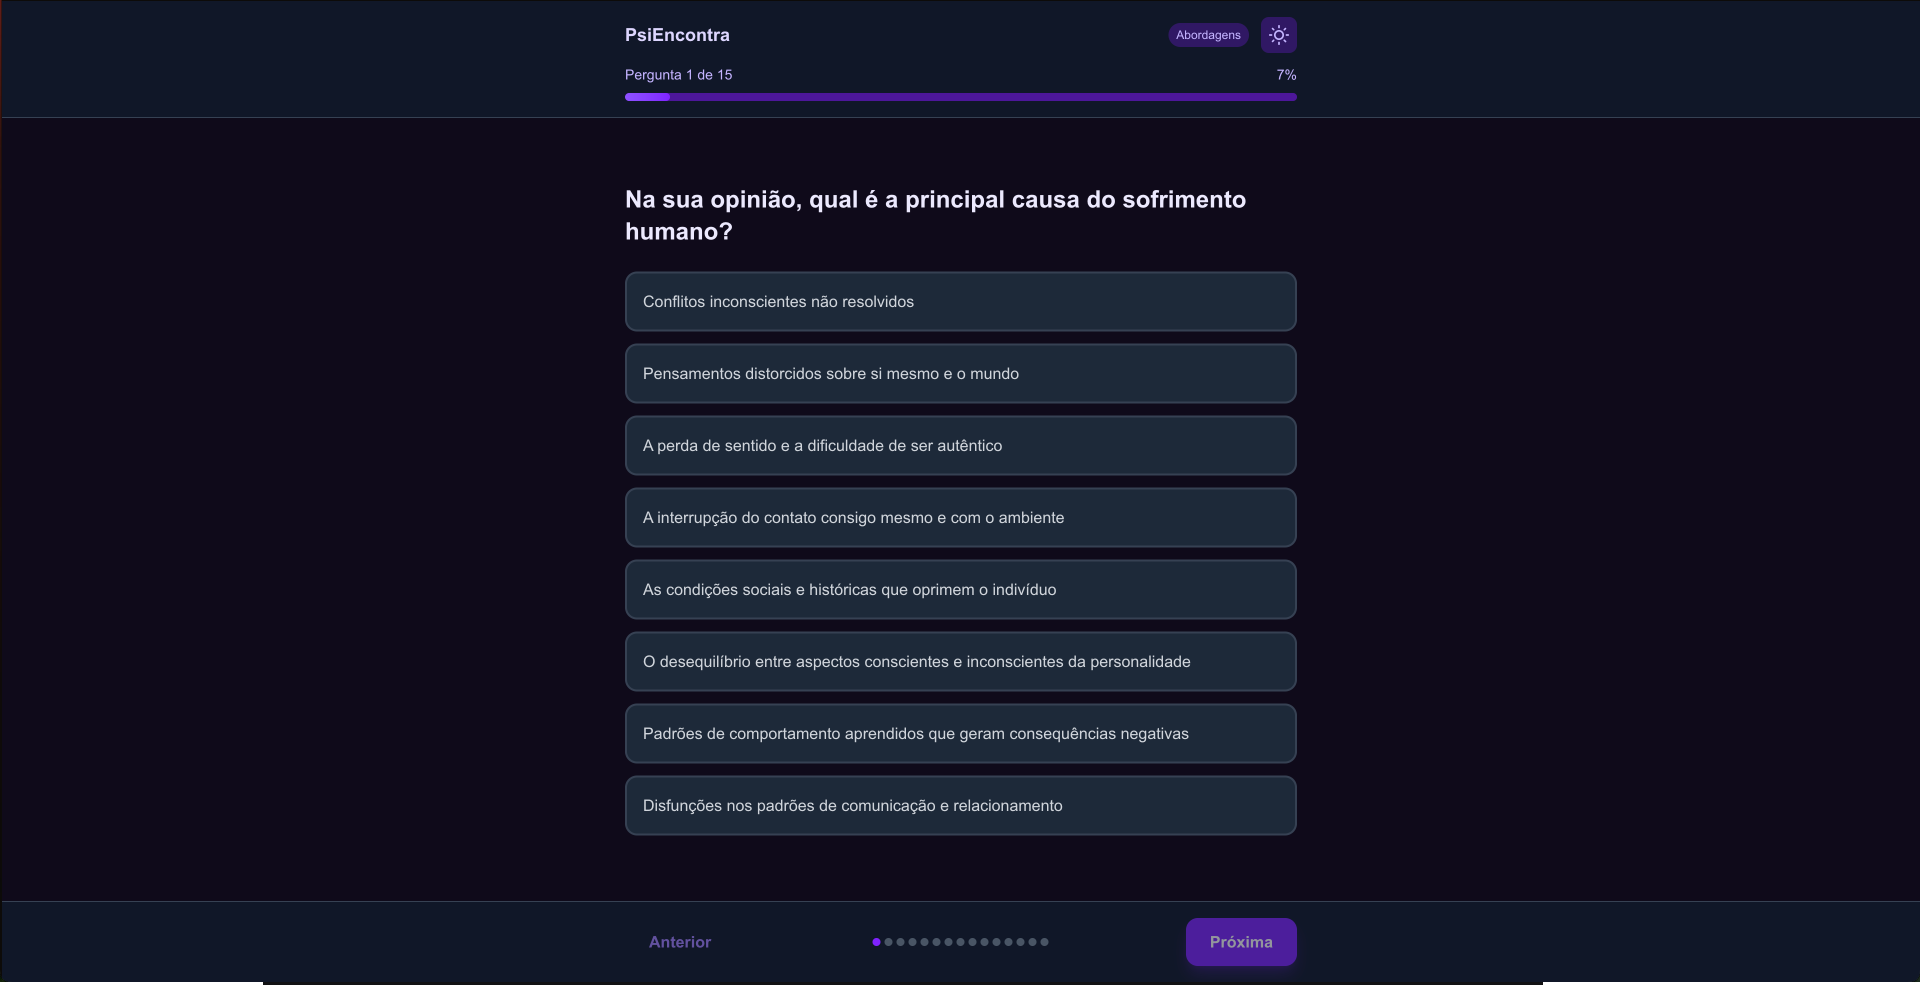
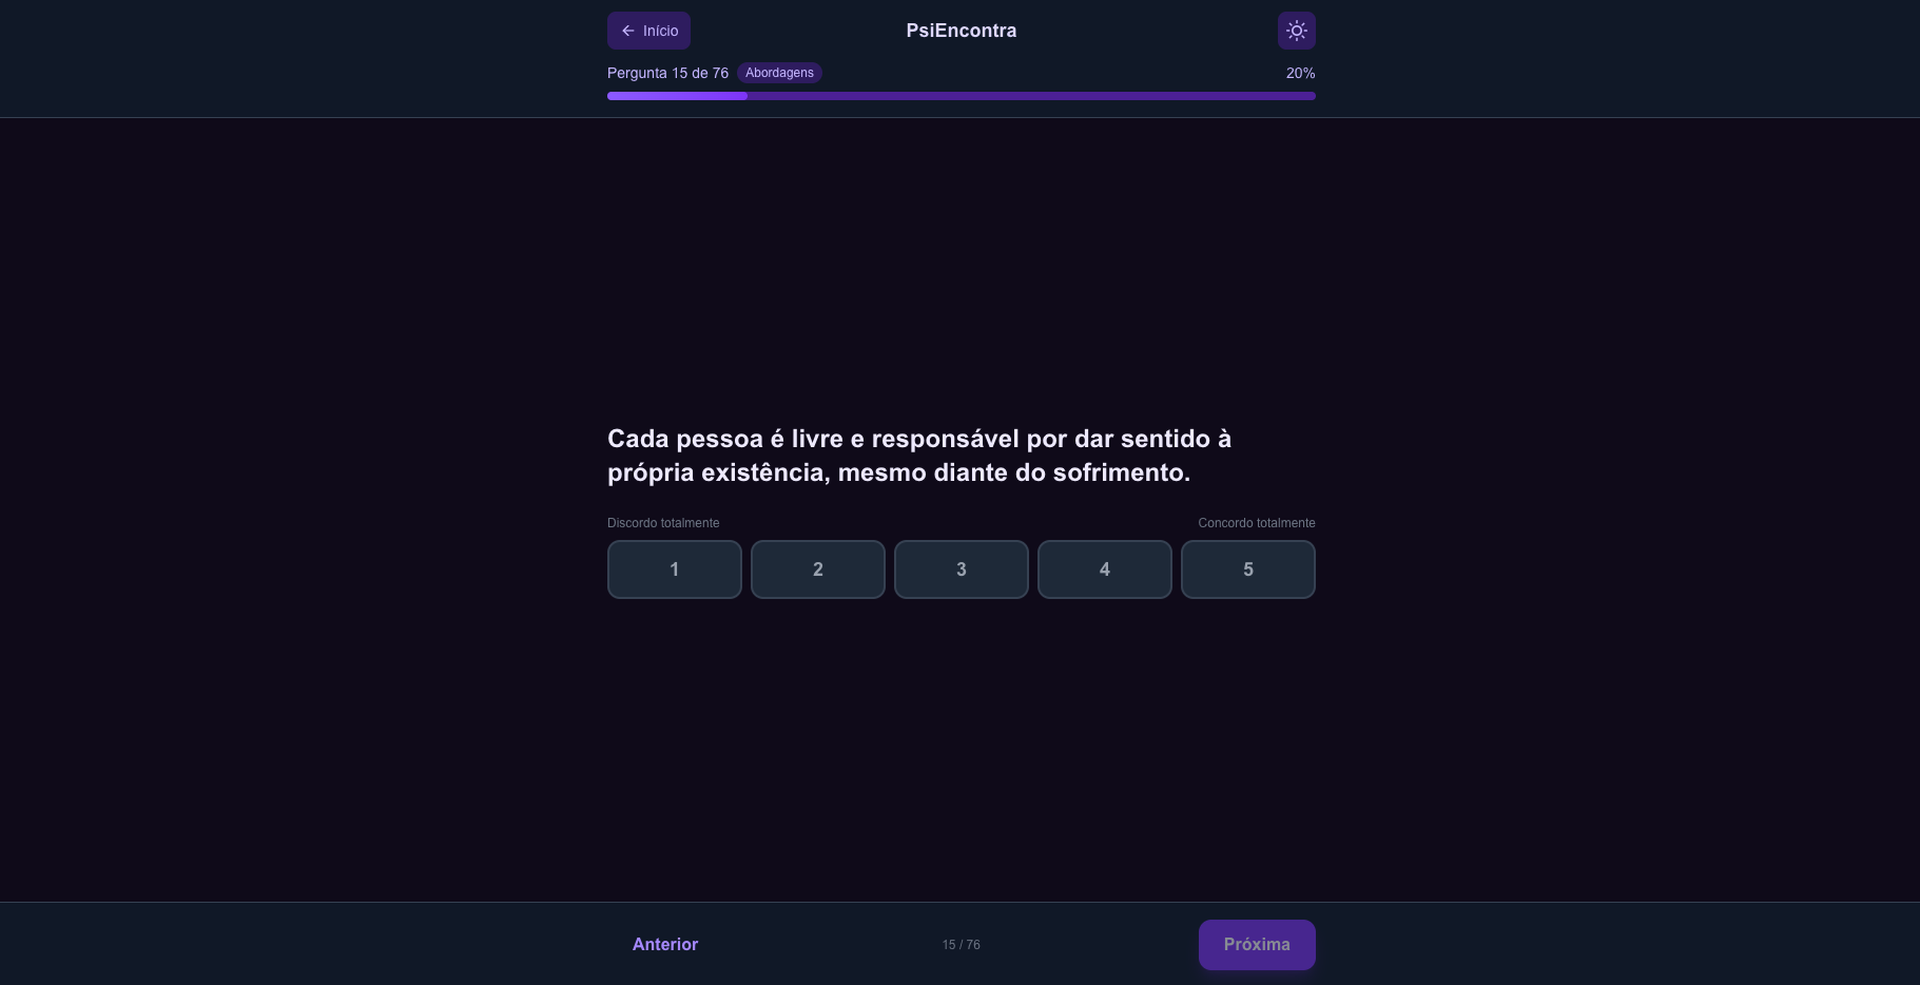
Show the detailed-mode Likert question in the PsiEncontra gallery

diff --git a/src/content/content.ts b/src/content/content.ts
@@ -218,7 +218,7 @@ const pt: Content = {
         ],
         images: [
           { src: "/projects/result.png", label: "Resultado", alt: "Tela de resultado do PsiEncontra com gráficos radar de abordagens teóricas e campos de atuação" },
-          { src: "/projects/questionnaire.png", label: "Questionário", alt: "Pergunta 1 de 15 do questionário do PsiEncontra, com oito opções de resposta e barra de progresso" },
+          { src: "/projects/questionnaire.png", label: "Questionário", alt: "Pergunta 15 de 76 do modo detalhado do PsiEncontra, com escala de 1 (Discordo totalmente) a 5 (Concordo totalmente)" },
           { src: "/projects/landing.png", label: "Página inicial", alt: "Página inicial do PsiEncontra" },
         ],
       },
@@ -427,7 +427,7 @@ const en: Content = {
         ],
         images: [
           { src: "/projects/result.png", label: "Results", alt: "PsiEncontra results screen with radar charts for theoretical approaches and fields of practice" },
-          { src: "/projects/questionnaire.png", label: "Questionnaire", alt: "Question 1 of 15 in the PsiEncontra questionnaire, with eight answer options and a progress bar" },
+          { src: "/projects/questionnaire.png", label: "Questionnaire", alt: "Question 15 of 76 in the PsiEncontra detailed mode, with a 1 (strongly disagree) to 5 (strongly agree) scale" },
           { src: "/projects/landing.png", label: "Landing page", alt: "PsiEncontra landing page" },
         ],
       },
